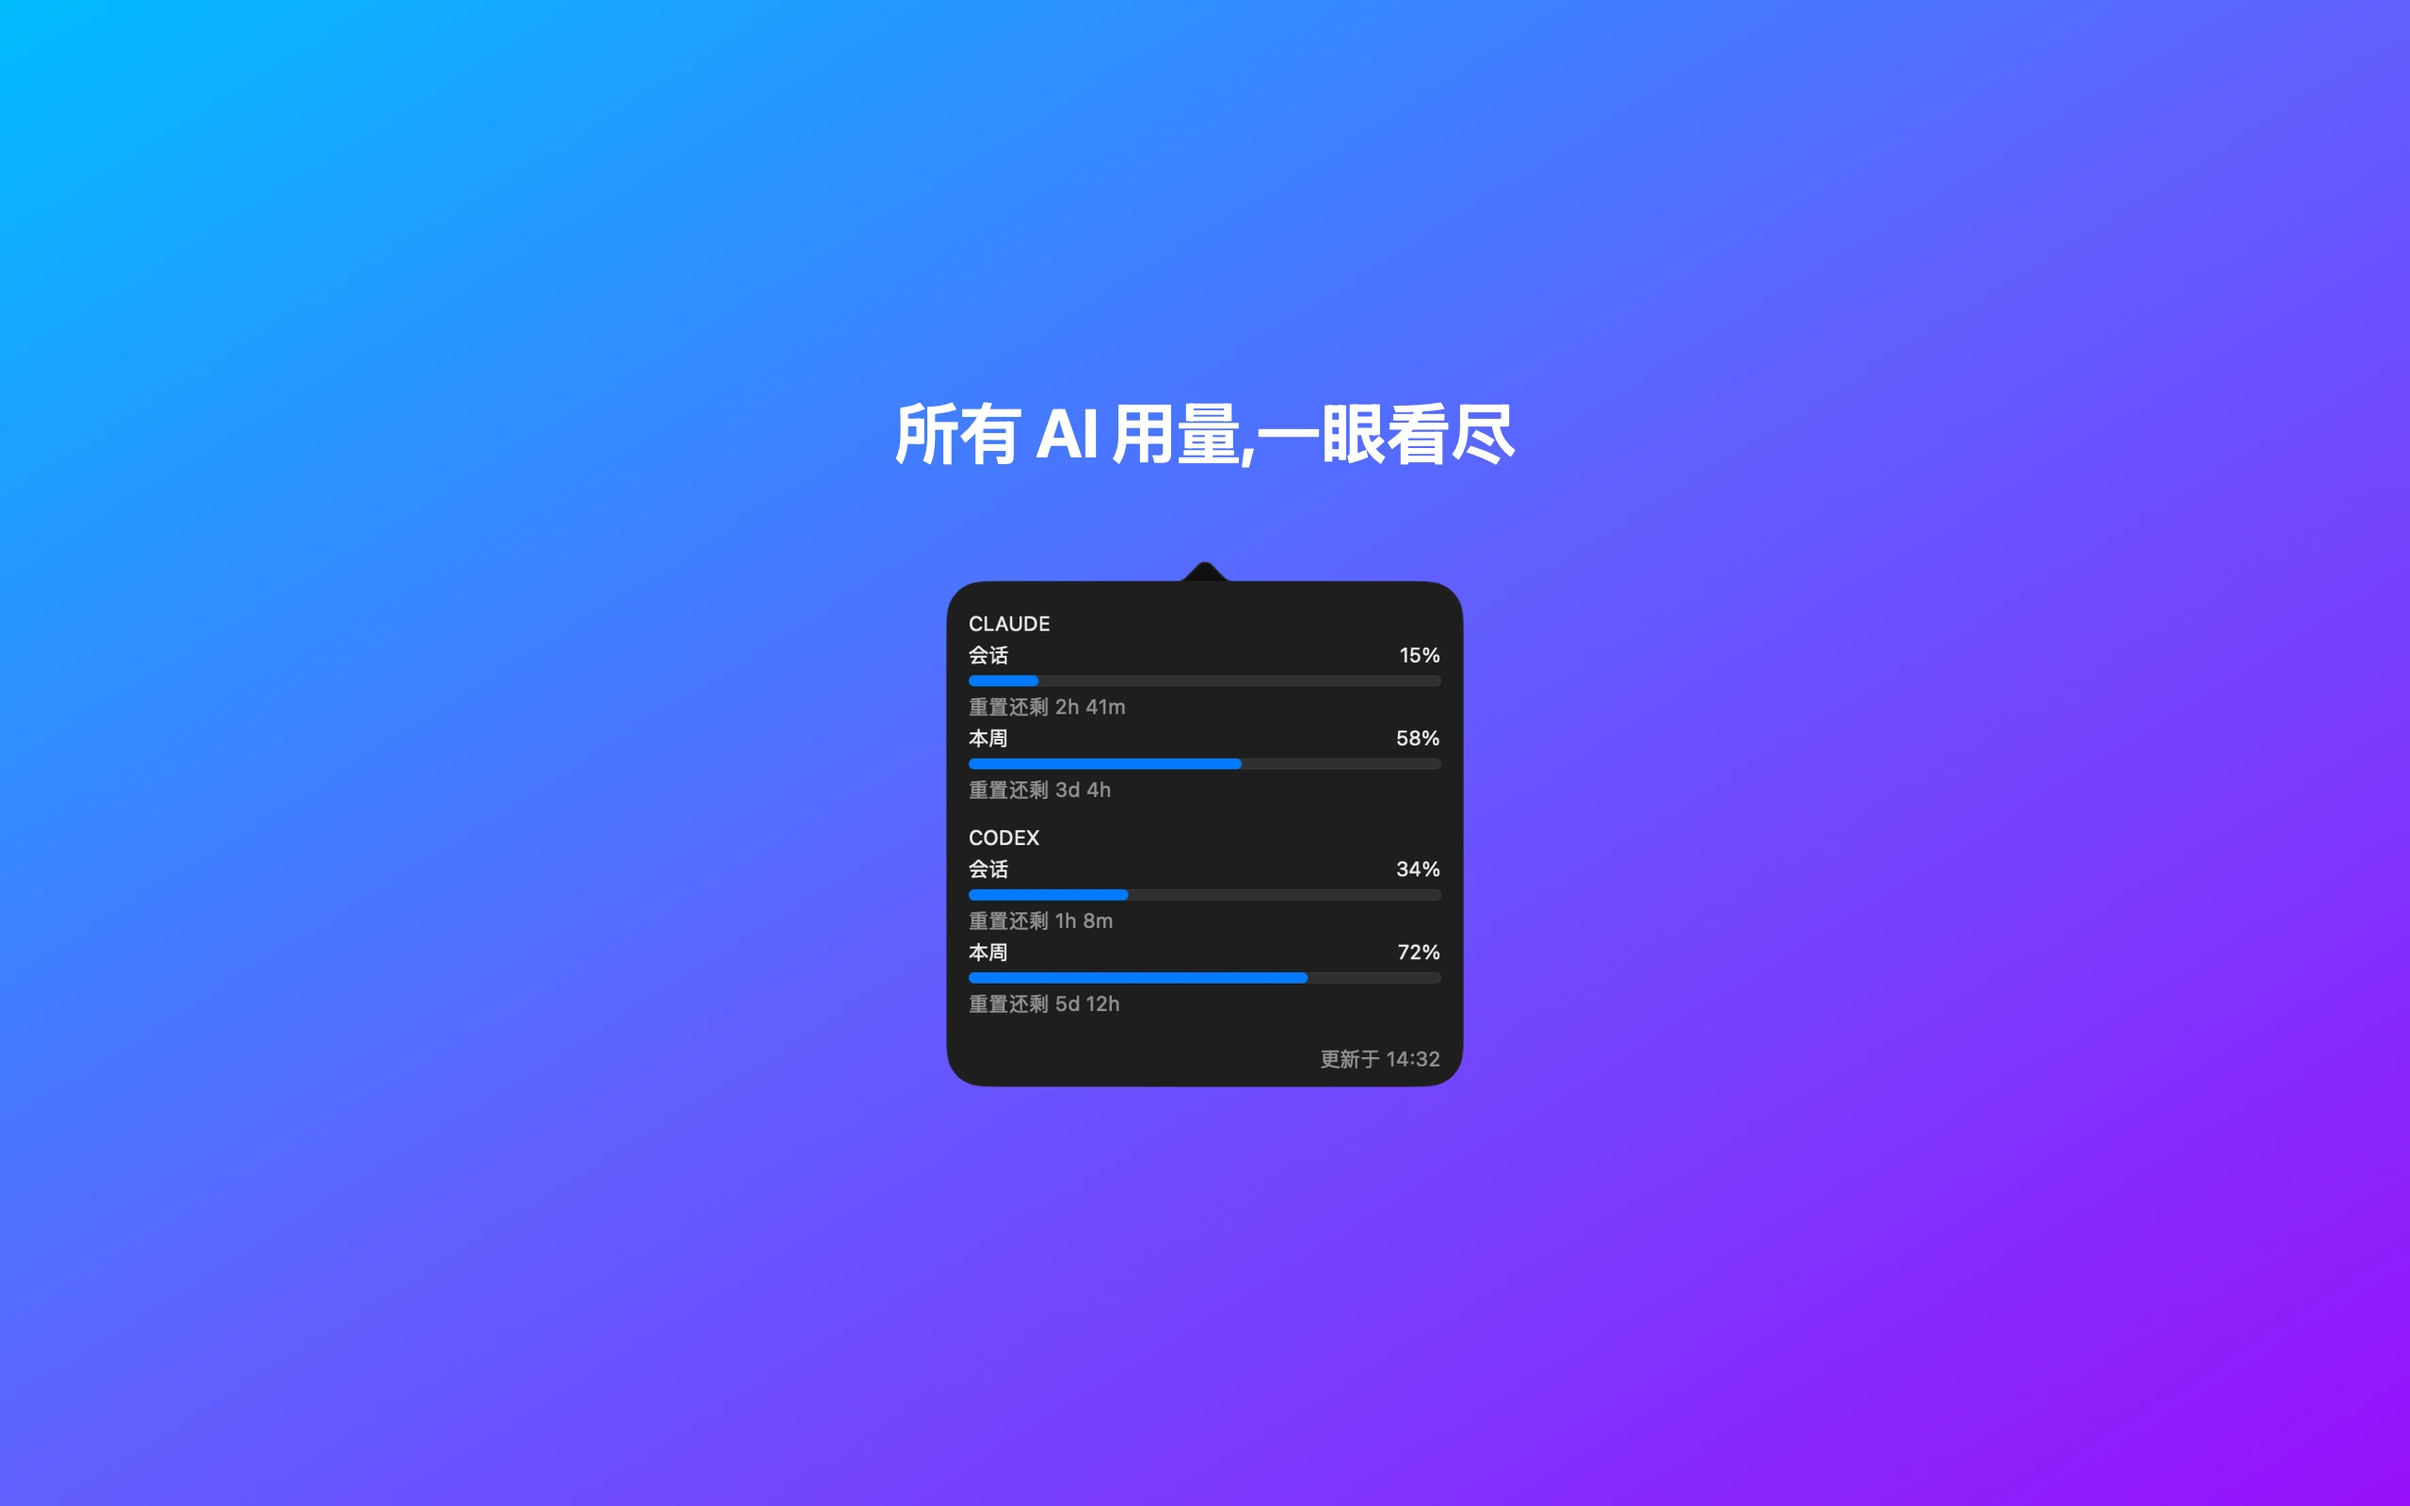
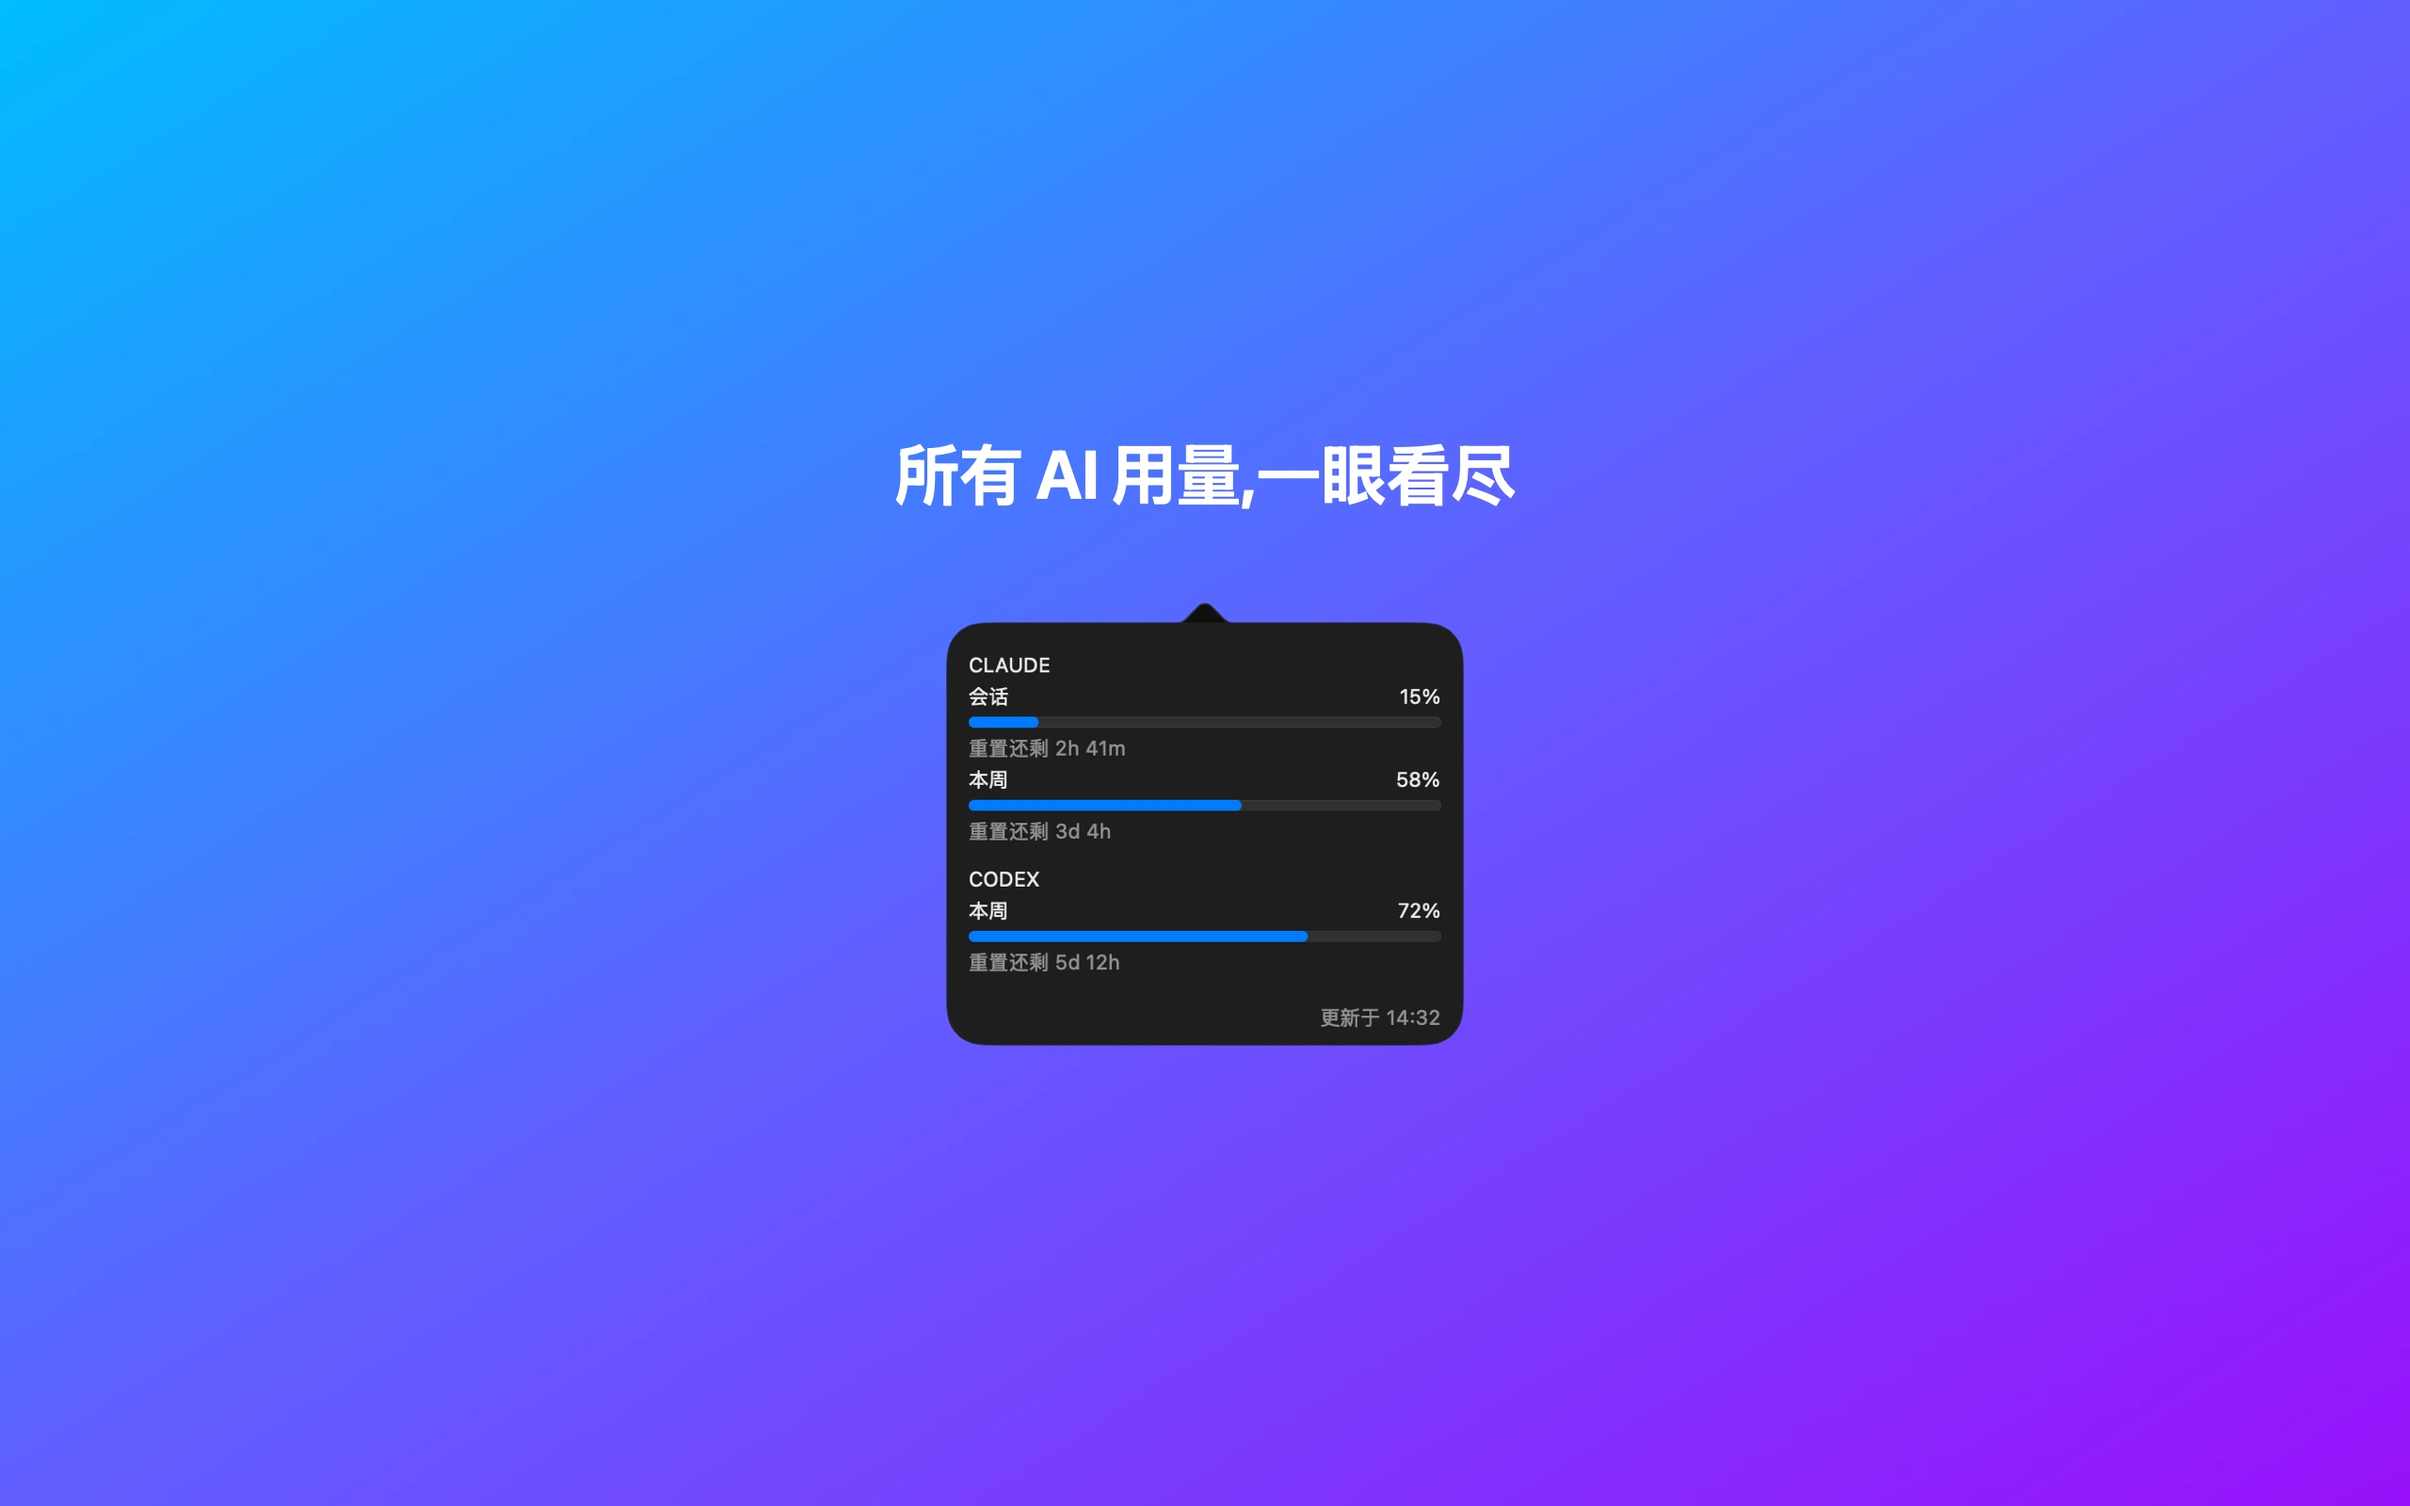
fix(tokstat): Codex 去掉 5h 限制,按窗口时长判 session/weekly → 0.3.4
Codex 2026-07 移除 5 小时(session)限制,/wham/usage 的 primary_window 变成周窗、
secondary_window=null。此前 tokstat 硬认 primary=session/secondary=weekly → Codex
session 行显示周数据(标签错)、weekly 读 null 恒 0。

- jobs.js: fetchCodex 改按 limit_window_seconds 判窗(≤6h→session、否则 weekly),
  缺失窗留空;row 加 has_session 标志
- ui.tsx: popover session 行加 item.has_session 正向守卫(Codex 无 session → 不显);
  menubar codex 指标由 session_pct 改 weekly_pct
- seed + 4 张商店图: Codex weekly-only
Claude 仍 5h+7d 双窗不变。真实数据实机验证: Codex 只显 WEEK 2%/6d 21h,与 API 一致。

Changed region(s): [[0.375, 0.375, 0.625, 0.75], [0.375, 0.25, 0.625, 0.3438], [0.5625, 0.5625, 0.5938, 0.5938]]

diff --git a/tokstat/ui.tsx b/tokstat/ui.tsx
@@ -22,13 +22,13 @@
 <HStack gap={3}>
[1 lines of base64/hex data omitted]
       {settings.menubar_style !== "text" && settings.menubar_style !== "gauge" && (
-      <Progress width={24} height={8} value={{op:"data", collection:"current", where:{source:"codex"}, latest:true, field:"session_pct"}} max={100} bands={[{upTo:80, color:{op:"coalesce", args:[{op:"state", path:"/settings/primary_color"}, "primary"]}}, {upTo:95, color:"warning"}, {color:"danger"}]}/>
+      <Progress width={24} height={8} value={{op:"data", collection:"current", where:{source:"codex"}, latest:true, field:"weekly_pct"}} max={100} bands={[{upTo:80, color:{op:"coalesce", args:[{op:"state", path:"/settings/primary_color"}, "primary"]}}, {upTo:95, color:"warning"}, {color:"danger"}]}/>
       )}
       {settings.menubar_style === "text" && (
-      <Text content={{op:"data", collection:"current", where:{source:"codex"}, latest:true, field:"session_pct_text"}} className="text-[13px] font-normal tabular-nums"/>
+      <Text content={{op:"data", collection:"current", where:{source:"codex"}, latest:true, field:"weekly_pct_text"}} className="text-[13px] font-normal tabular-nums"/>
       )}
       {settings.menubar_style === "gauge" && (
-      <Meter width={16} height={16} value={{op:"data", collection:"current", where:{source:"codex"}, latest:true, field:"session_pct"}} max={100} bands={[{upTo:80, color:{op:"coalesce", args:[{op:"state", path:"/settings/primary_color"}, "primary"]}}, {upTo:95, color:"warning"}, {color:"danger"}]}/>
+      <Meter width={16} height={16} value={{op:"data", collection:"current", where:{source:"codex"}, latest:true, field:"weekly_pct"}} max={100} bands={[{upTo:80, color:{op:"coalesce", args:[{op:"state", path:"/settings/primary_color"}, "primary"]}}, {upTo:95, color:"warning"}, {color:"danger"}]}/>
       )}
     </HStack>
 )}
@@ -54,13 +54,13 @@
 <HStack justify="between" className="min-w-[54px]">
[1 lines of base64/hex data omitted]
       {settings.menubar_style !== "text" && settings.menubar_style !== "gauge" && (
-      <Progress value={{op:"data", collection:"current", where:{source:"codex"}, latest:true, field:"session_pct"}} max={100} bands={[{upTo:80, color:{op:"coalesce", args:[{op:"state", path:"/settings/primary_color"}, "primary"]}}, {upTo:95, color:"warning"}, {color:"danger"}]}/>
+      <Progress value={{op:"data", collection:"current", where:{source:"codex"}, latest:true, field:"weekly_pct"}} max={100} bands={[{upTo:80, color:{op:"coalesce", args:[{op:"state", path:"/settings/primary_color"}, "primary"]}}, {upTo:95, color:"warning"}, {color:"danger"}]}/>
       )}
       {settings.menubar_style === "text" && (
-      <Text content={{op:"data", collection:"current", where:{source:"codex"}, latest:true, field:"session_pct_text"}} className="text-[13px] font-normal tabular-nums"/>
+      <Text content={{op:"data", collection:"current", where:{source:"codex"}, latest:true, field:"weekly_pct_text"}} className="text-[13px] font-normal tabular-nums"/>
       )}
       {settings.menubar_style === "gauge" && (
-      <Meter width={16} height={16} value={{op:"data", collection:"current", where:{source:"codex"}, latest:true, field:"session_pct"}} max={100} bands={[{upTo:80, color:{op:"coalesce", args:[{op:"state", path:"/settings/primary_color"}, "primary"]}}, {upTo:95, color:"warning"}, {color:"danger"}]}/>
+      <Meter width={16} height={16} value={{op:"data", collection:"current", where:{source:"codex"}, latest:true, field:"weekly_pct"}} max={100} bands={[{upTo:80, color:{op:"coalesce", args:[{op:"state", path:"/settings/primary_color"}, "primary"]}}, {upTo:95, color:"warning"}, {color:"danger"}]}/>
       )}
     </HStack>
 )}
@@ -82,7 +82,9 @@
             <HStack className="items-center">
               <Text className="text-[11px] font-semibold uppercase tracking-wider">{item.label}</Text>
             </HStack>
-            {item.ok && (
+            {/* session 行仅当该 provider 有短窗时显示(item.has_session,正向守卫)。Codex 2026-07
+                去掉 5h 后无 session → 只显 weekly;Claude 仍 5h+7d 两行。 */}
+            {item.has_session && (
             <VStack gap={1}>
               <HStack className="items-center">
                 <Text className="text-[10px] uppercase tracking-wider">{t.session}</Text>

diff --git a/tokstat/jobs.js b/tokstat/jobs.js
@@ -153,7 +153,17 @@ async function fetchCodex(cred) {
   if (!res.ok) return res;
   const rl = res.data.rate_limit;
   if (!rl) return { transient: true };
-  return { ok: true, session: codexWindow(rl.primary_window), weekly: codexWindow(rl.secondary_window) };
+  // 不按位置(primary/secondary)认窗:Codex 2026-07 去掉 5h 限制后 primary_window 变成周窗、
+  // secondary_window=null,位置假设会张冠李戴(把周数据当 session、weekly 读到 null 恒 0)。
+  // 改按 limit_window_seconds 归类:≤6h → session、否则 → weekly;缺失的窗 → 该侧留空(不渲染)。
+  // 第一性:读窗口本身代表多长,别假设它在哪个槽。窗口若都在则各归其位,与 Claude 语义一致。
+  let session, weekly;
+  for (const w of [rl.primary_window, rl.secondary_window]) {
+    if (!w || typeof w.limit_window_seconds !== "number") continue;
+    if (w.limit_window_seconds <= 6 * 3600) session = codexWindow(w);
+    else weekly = codexWindow(w);
+  }
+  return { ok: true, session, weekly };
 }
 
 // ── Provider 注册表 ────────────────────────────────────────────────────────
@@ -215,6 +225,9 @@ async function upsertProvider(p, side, ts, ctx) {
     notified_session: nS,
     notified_weekly: nW,
     err: "",
+    // 该 provider 是否有 session(短)窗:Codex 2026-07 去掉 5h 后只剩周窗 → false,UI 据此
+    // 隐藏 session 行(popover 是 DataList 单模板迭代,只能数据驱动隐藏,正向守卫见 ui.tsx)。
+    has_session: typeof sPct === "number",
     session_pct: numOr0(sPct),
     session_pct_text: pctText(sPct),
     session_reset_text: resetLine(sess.resets_at_ms),
